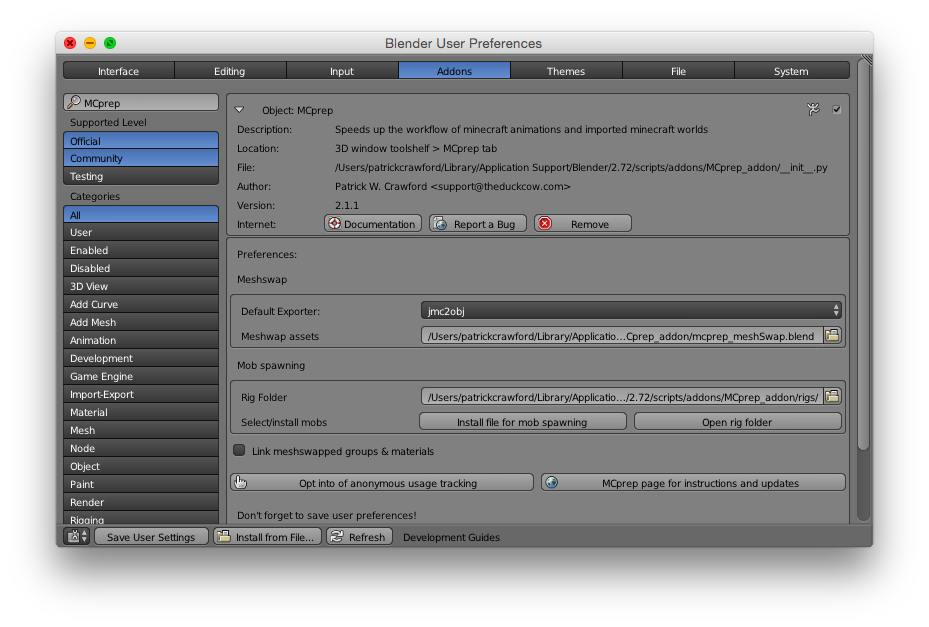
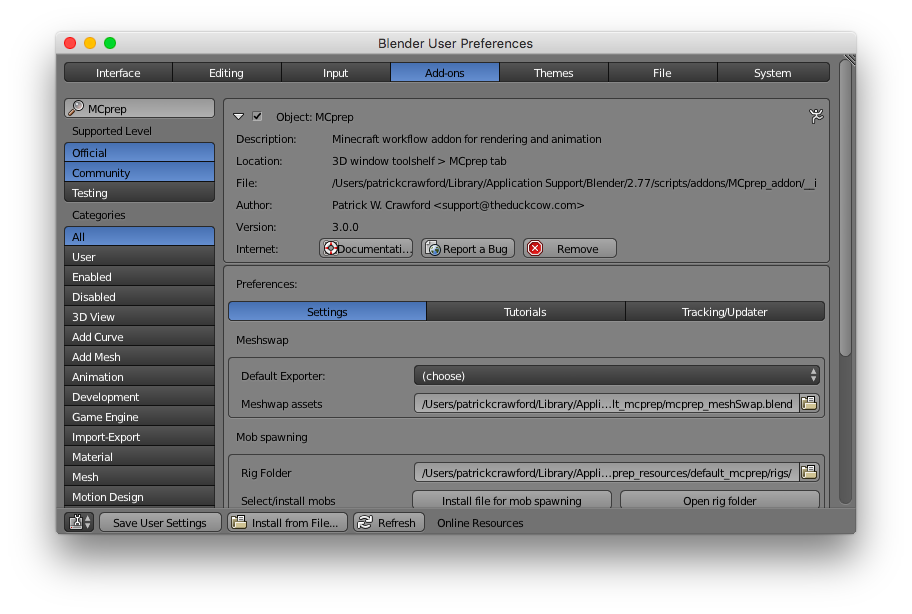
several additions
added obj importer shortcut, plus exporter tool opening options (need to implement mineways updater still), updated UI of spawner slightly

Changed region(s): [[0.0614, 0.0619, 0.9518, 0.8974]]

diff --git a/MCprep_addon/mcprep_ui.py b/MCprep_addon/mcprep_ui.py
@@ -32,7 +32,7 @@ import subprocess
 # addon imports
 from . import conf
 from . import util
-from . import spawner # remove once UIlist for mobs implemented
+from . import spawner
 from . import materials
 from . import addon_updater_ops
 from . import tracking
@@ -255,6 +255,18 @@ class MCprepPreference(bpy.types.AddonPreferences):
 		description = "Print out more information in the console",
 		default = False,
 		update = change_verbose)
+	open_jmc2obj_path = bpy.props.StringProperty(
+		name = "jmc2obj path",
+		description = "Path to the jmc2obj executable",
+		subtype = 'FILE_PATH',
+		default = "~/jMc2Obj.jar")
+	open_mineways_path = bpy.props.StringProperty(
+		name = "Mineways path",
+		description = "Path to the Mineways executable",
+		subtype = 'FILE_PATH',
+		default = "~/mineways.exe")
+		# use update = func to search for sub executable intelligently
+
 
 	# addon updater preferences
 
@@ -307,6 +319,19 @@ class MCprepPreference(bpy.types.AddonPreferences):
 			col.label("Default Exporter:")
 			col = split.column()
 			col.prop(self, "MCprep_exporter_type", text="")
+			
+			split = layout.split(percentage=0.3)
+			col = split.column()
+			col.label("jmc2obj executable")
+			col = split.column()
+			col.prop(self, "open_jmc2obj_path", text="")
+
+			split = layout.split(percentage=0.3)
+			col = split.column()
+			col.label("Mineways executable")
+			col = split.column()
+			col.prop(self, "open_mineways_path", text="")
+
 			split = layout.split(percentage=0.3)
 			col = split.column()
 			col.label("Meshwap assets")
@@ -362,13 +387,13 @@ class MCprepPreference(bpy.types.AddonPreferences):
 			col = layout.column()
 			col.operator("wm.url_open",
 					text="MCprep page for instructions and updates",
-					icon="WORLD").url = "https://github.com/TheDuckCow/MCprep"
+					icon="WORLD").url = "http://theduckcow.com/dev/blender/mcprep/"
 
 			row = layout.row()
 			col = row.column()
 			col.operator("wm.url_open",
 					text="Import Minecraft worlds").url = \
-					"https://youtu.be/iRixJzraHFI?list=PL8X_CzUEVBfaajwyguIj_utPXO4tEOr7a"
+					"http://theduckcow.com/dev/blender/mcprep/mcprep-minecraft-world-imports/"
 			col = row.column()
 			col.operator("wm.url_open",
 					text="Mob (rig) spawning").url = \
@@ -402,6 +427,7 @@ class MCprepPreference(bpy.types.AddonPreferences):
 
 			bcol = brow.column()
 			bcol.label("For info on anonymous usage tracking:")
+			brow = box.row()
 			bcol.operator("wm.url_open",
 					text="Open the Privacy Policy").url = \
 					"http://theduckcow.com/privacy-policy"
@@ -445,7 +471,7 @@ class MCpanel(bpy.types.Panel):
 	bl_label = "World Imports"
 	bl_space_type = 'VIEW_3D'
 	bl_region_type = 'TOOLS'
-	bl_context = "objectmode"
+	# bl_context = "objectmode"
 	bl_category = "MCprep"
 
 	def draw(self, context):
@@ -459,9 +485,19 @@ class MCpanel(bpy.types.Panel):
 		col = split.column(align=True)
 		col.label("World exporter:")
 		split = layout.split()
-		col = split.row(align=True)
+		col = split.column(align=True)
 		row = col.row(align=True)
 		row.prop(addon_prefs,"MCprep_exporter_type", expand=True)
+		col.operator("import_scene.obj","OBJ world import")
+		row = col.row(align=True)
+		if addon_prefs.MCprep_exporter_type == "(choose)":
+			row.label(text="Select exporter!",icon='ERROR')
+			row.enabled = False
+		elif addon_prefs.MCprep_exporter_type == "Mineways":
+			row.operator("mcprep.open_mineways")
+		else:
+			row.operator("mcprep.open_jmc2obj")
+
 		
 		split = layout.split()
 		col = split.column(align=True)
@@ -542,23 +578,16 @@ class MCpanel(bpy.types.Panel):
 		addon_updater_ops.update_notice_box_ui(self, context)
 
 
-		if conf.update_ready==True:# checkForUpdate(): # and not v: # for dev testing, don't show?
-			row.label (text="Update ready!", icon='ERROR')
-			split = layout.split()
-			row = split.row(align=True)
-			row.operator("wm.url_open",text="Get it now", icon="HAND").url = \
-					"https://github.com/TheDuckCow/MCprep/releases"
-
-
 
 # ---------
 # MCprep panel for skin swapping
+# (multiple contexts)
 class MCpanelSkins(bpy.types.Panel):
 	"""MCprep addon panel"""
 	bl_label = "Skin Swapper"
 	bl_space_type = 'VIEW_3D'
 	bl_region_type = 'TOOLS'
-	bl_context = "objectmode"
+	# bl_context = "objectmode"
 	bl_category = "MCprep"
 
 	def draw(self, context):
@@ -577,7 +606,6 @@ class MCpanelSkins(bpy.types.Panel):
 		# set size of UIlist
 		row = layout.row()
 		col = row.column()
-
 
 
 		is_sortable = len(conf.skin_list) > 1
@@ -637,11 +665,16 @@ class MCpanelSpawn(bpy.types.Panel):
 
 	def draw(self, context):
 
-		# check for update if appropriate
+		# checkingck for update if appropriate
 		addon_updater_ops.check_for_update_background(context)
 		settings = context.scene.mcprep_props
 		
 		layout = self.layout
+		split = layout.split()
+		col = split.column(align=True)
+		row = col.row(align=True)
+		row.prop(context.scene,"mcrig_path",text="")
+
 		row = layout.row()
 		row.prop(settings, "spawn_rig_category", text="")
 
@@ -681,7 +714,9 @@ class MCpanelSpawn(bpy.types.Panel):
 		if len(conf.rig_list_sub)>0:
 			name = conf.rig_list_sub[context.scene.mcprep_mob_list_index][1]
 			p = col.operator("mcprep.mob_spawner","Spawn: "+name)
-			p.mcmob_type = conf.rig_list_sub[context.scene.mcprep_mob_list_index][0]
+			datapass = conf.rig_list_sub[context.scene.mcprep_mob_list_index][0]
+			p.mcmob_type = datapass
+			col.label(datapass.split(":/:")[0])
 		else:
 			# other condition for reloading??/if none found
 			col.label("No mobs loaded")
@@ -790,12 +825,13 @@ def register():
 		name = "mcrig_path",
 		description = "Folder for rigs to spawn in, saved with this blend file data",
 		subtype = 'DIR_PATH',
+		update = spawner.update_rig_path,
 		default = addon_prefs.mcrig_path)
 	bpy.types.Scene.mcskin_path = bpy.props.StringProperty(	
 		name = "mcskin_path",
 		description = "Folder for skin textures, used in skin swapping",
 		subtype = 'DIR_PATH',
-		update=materials.update_skin_path,
+		update = materials.update_skin_path,
 		default = addon_prefs.mcskin_path)
 
 	conf.v = addon_prefs.verbose

diff --git a/MCprep_addon/world_tools.py b/MCprep_addon/world_tools.py
@@ -1,0 +1,89 @@
+# ##### BEGIN MIT LICENSE BLOCK #####
+#
+# Copyright (c) 2016 Patrick W. Crawford
+# 
+# Permission is hereby granted, free of charge, to any person obtaining a copy
+# of this software and associated documentation files (the "Software"), to deal
+# in the Software without restriction, including without limitation the rights
+# to use, copy, modify, merge, publish, distribute, sublicense, and/or sell
+# copies of the Software, and to permit persons to whom the Software is
+# furnished to do so, subject to the following conditions:
+# 
+# The above copyright notice and this permission notice shall be included in
+# all copies or substantial portions of the Software.
+# 
+# THE SOFTWARE IS PROVIDED "AS IS", WITHOUT WARRANTY OF ANY KIND, EXPRESS OR
+# IMPLIED, INCLUDING BUT NOT LIMITED TO THE WARRANTIES OF MERCHANTABILITY,
+# FITNESS FOR A PARTICULAR PURPOSE AND NONINFRINGEMENT. IN NO EVENT SHALL THE
+# AUTHORS OR COPYRIGHT HOLDERS BE LIABLE FOR ANY CLAIM, DAMAGES OR OTHER
+# LIABILITY, WHETHER IN AN ACTION OF CONTRACT, TORT OR OTHERWISE, ARISING FROM,
+# OUT OF OR IN CONNECTION WITH THE SOFTWARE OR THE USE OR OTHER DEALINGS IN
+# THE SOFTWARE.
+#
+# ##### END MIT LICENSE BLOCK #####
+
+import bpy
+import random
+
+from . import conf
+from . import util
+
+
+# -----------------------------------------------------------------------------
+# supporting functions
+# -----------------------------------------------------------------------------
+
+
+
+# -----------------------------------------------------------------------------
+# class definitions
+# -----------------------------------------------------------------------------
+
+
+
+class MCP_open_jmc2obj(bpy.types.Operator):
+	"""Open the jmc2obj executbale"""
+	bl_idname = "mcprep.open_jmc2obj"
+	bl_label = "Open jmc2obj"
+	bl_description = "Open the jmc2obj executbale"
+
+	def execute(self,context):
+		addon_prefs = bpy.context.user_preferences.addons[__package__].preferences
+		res = util.open_program(addon_prefs.open_jmc2obj_path)
+
+		if res !=0:
+			self.reprot({'ERROR'},res)
+			return {'CANCELLED'}
+		else:
+			self.report({'INFO'},"jmc2obj should open soon")
+		
+		return {'FINISHED'}
+
+
+class MCP_open_mineways(bpy.types.Operator):
+	"""Open the mineways executbale"""
+	bl_idname = "mcprep.open_mineways"
+	bl_label = "Open Mineways"
+	bl_description = "Open the Mineways executbale"
+
+	def execute(self,context):
+		addon_prefs = bpy.context.user_preferences.addons[__package__].preferences
+		util.open_program(addon_prefs.open_mineways_path)
+		
+		return {'FINISHED'}
+
+
+
+# -----------------------------------------------------------------------------
+#	Above for UI
+#	Below for register
+# -----------------------------------------------------------------------------
+
+
+
+def register():
+	pass
+
+def unregister():
+	pass
+

diff --git a/MCprep_addon/spawner.py b/MCprep_addon/spawner.py
@@ -60,8 +60,9 @@ def getRigList(context): #consider passing in rigpath
 
 # for UI list path callback
 def update_rig_path(self, context):
-	if conf.vv:print("Updating skin path")
+	if conf.vv:print("Updating rig path")
 	updateRigList(context)
+	spawn_rigs_categories(self, context)
 
 # Update the rig list and subcategory list
 def updateRigList(context):
@@ -77,6 +78,7 @@ def updateRigList(context):
 	# iterate through all folders
 	if len(os.listdir(rigpath)) < 1:
 		#self.report({'ERROR'}, "Rig sub-folders not found")
+		# should this really be an error? only if no local files too
 		return# {'CANCELLED'}
 
 	nocatpathlist = []
@@ -164,7 +166,7 @@ def updateCategory(context):
 		if filter==True and sub[-1].lower() != category.lower():
 			continue
 		item = context.scene.mcprep_mob_list.add()
-		print("SPAWNING:",sub, "#", itm)
+		if conf.v:print("Spawning:",sub, "#", itm)
 		description = "Spawn a {x} rig".format(x=sub[1])
 		item.label = description
 		item.description = description

diff --git a/MCprep_addon/util.py b/MCprep_addon/util.py
@@ -24,6 +24,9 @@
 
 import bpy
 import random
+import os
+
+from subprocess import Popen, PIPE
 
 from . import conf
 
@@ -218,3 +221,22 @@ for ob in bpy.data.objects:
     if ob not in list(bpy.context.scene.objects):
         bpy.context.scene.objects.link(ob)
 """
+
+# ---------
+# Open an external program from filepath/executbale
+def open_program(executable):
+
+	if os.path.isfile(executable) == False:
+		return "Executable not found"
+
+	p = Popen(['open',executable], stdin=PIPE, stdout=PIPE, stderr=PIPE)
+	stdout, err = p.communicate(b"")
+
+	if err != b"":
+		return "Error occured while trying to open Sync: "+str(err) 
+
+	# print("stdout?")
+	# print(stdout)
+
+	return 0
+

diff --git a/MCprep_addon/__init__.py b/MCprep_addon/__init__.py
@@ -76,6 +76,7 @@ if "bpy" in locals():
 	importlib.reload(materials)
 	importlib.reload(meshswap)
 	importlib.reload(spawner)
+	importlib.reload(world_tools)
 	importlib.reload(tracking)
 	
 
@@ -90,6 +91,7 @@ else:
 		materials,
 		meshswap,
 		spawner,
+		world_tools,
 		addon_updater_ops,
 		tracking
 	)
@@ -109,6 +111,7 @@ def register():
 	materials.register()
 	meshswap.register()
 	spawner.register()
+	world_tools.register()
 	tracking.register(bl_info)
 
 	# addon updater code and configurations
@@ -122,6 +125,7 @@ def unregister():
 	materials.unregister()
 	meshswap.unregister()
 	spawner.unregister()
+	world_tools.unregister()
 	tracking.unregister()
 	
 

diff --git a/MCprep_addon/materials.py b/MCprep_addon/materials.py
@@ -576,7 +576,7 @@ class MCPREP_improveUI(bpy.types.Operator):
 	bl_options = {'REGISTER', 'UNDO'}
 
 	def execute(self, context):
-		context.space_data.show_textured_solid = True # need to make it 3d space?
+		context.space_data.show_textured_solid = True
 		context.user_preferences.system.use_mipmaps = False
 
 		return {'FINISHED'}

diff --git a/MCprep_addon/reload.py b/MCprep_addon/reload.py
@@ -34,7 +34,7 @@ build_dir = "../compiled/"
 
 files = ["__init__.py","conf.py","materials.py","meshswap.py","spawner.py","tracking.py",
 		"mcprep_ui.py", "util.py", "MCprep_resources","addon_updater.py",
-		"addon_updater_ops.py", "icons"]
+		"addon_updater_ops.py", "icons", "world_tools.py"]
 
 
 

diff --git a/MCprep_addon/conf.py b/MCprep_addon/conf.py
@@ -36,7 +36,7 @@ def init():
 	# Used to print out extra information, set false with distribution
 	# -----------------------------------------------
 	global dev
-	dev = False
+	dev = True
 
 	global v
 	v = True # $VERBOSE, UI setting
